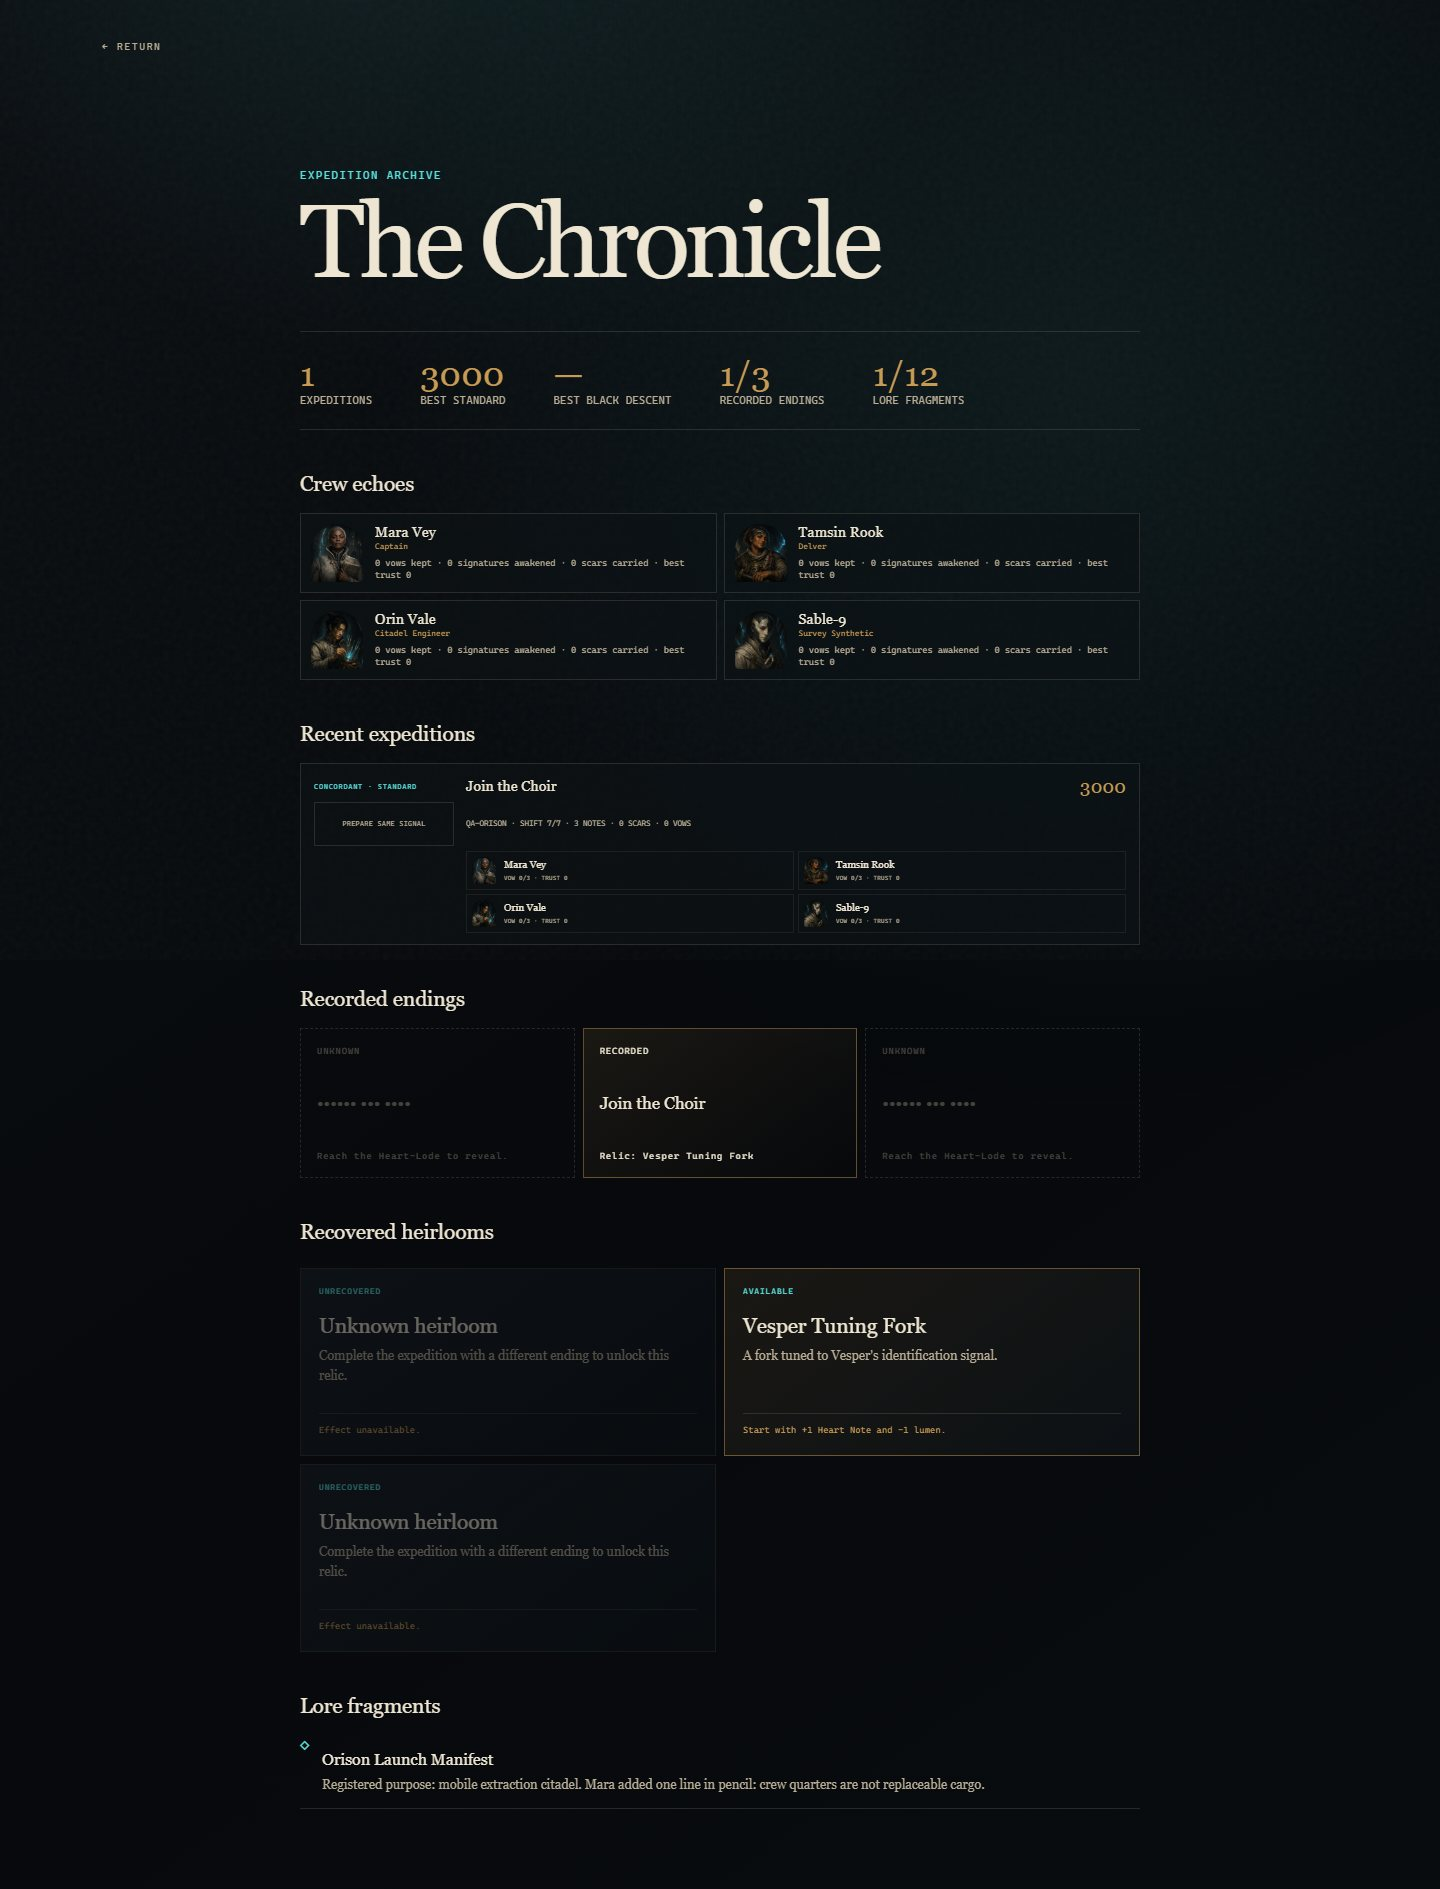
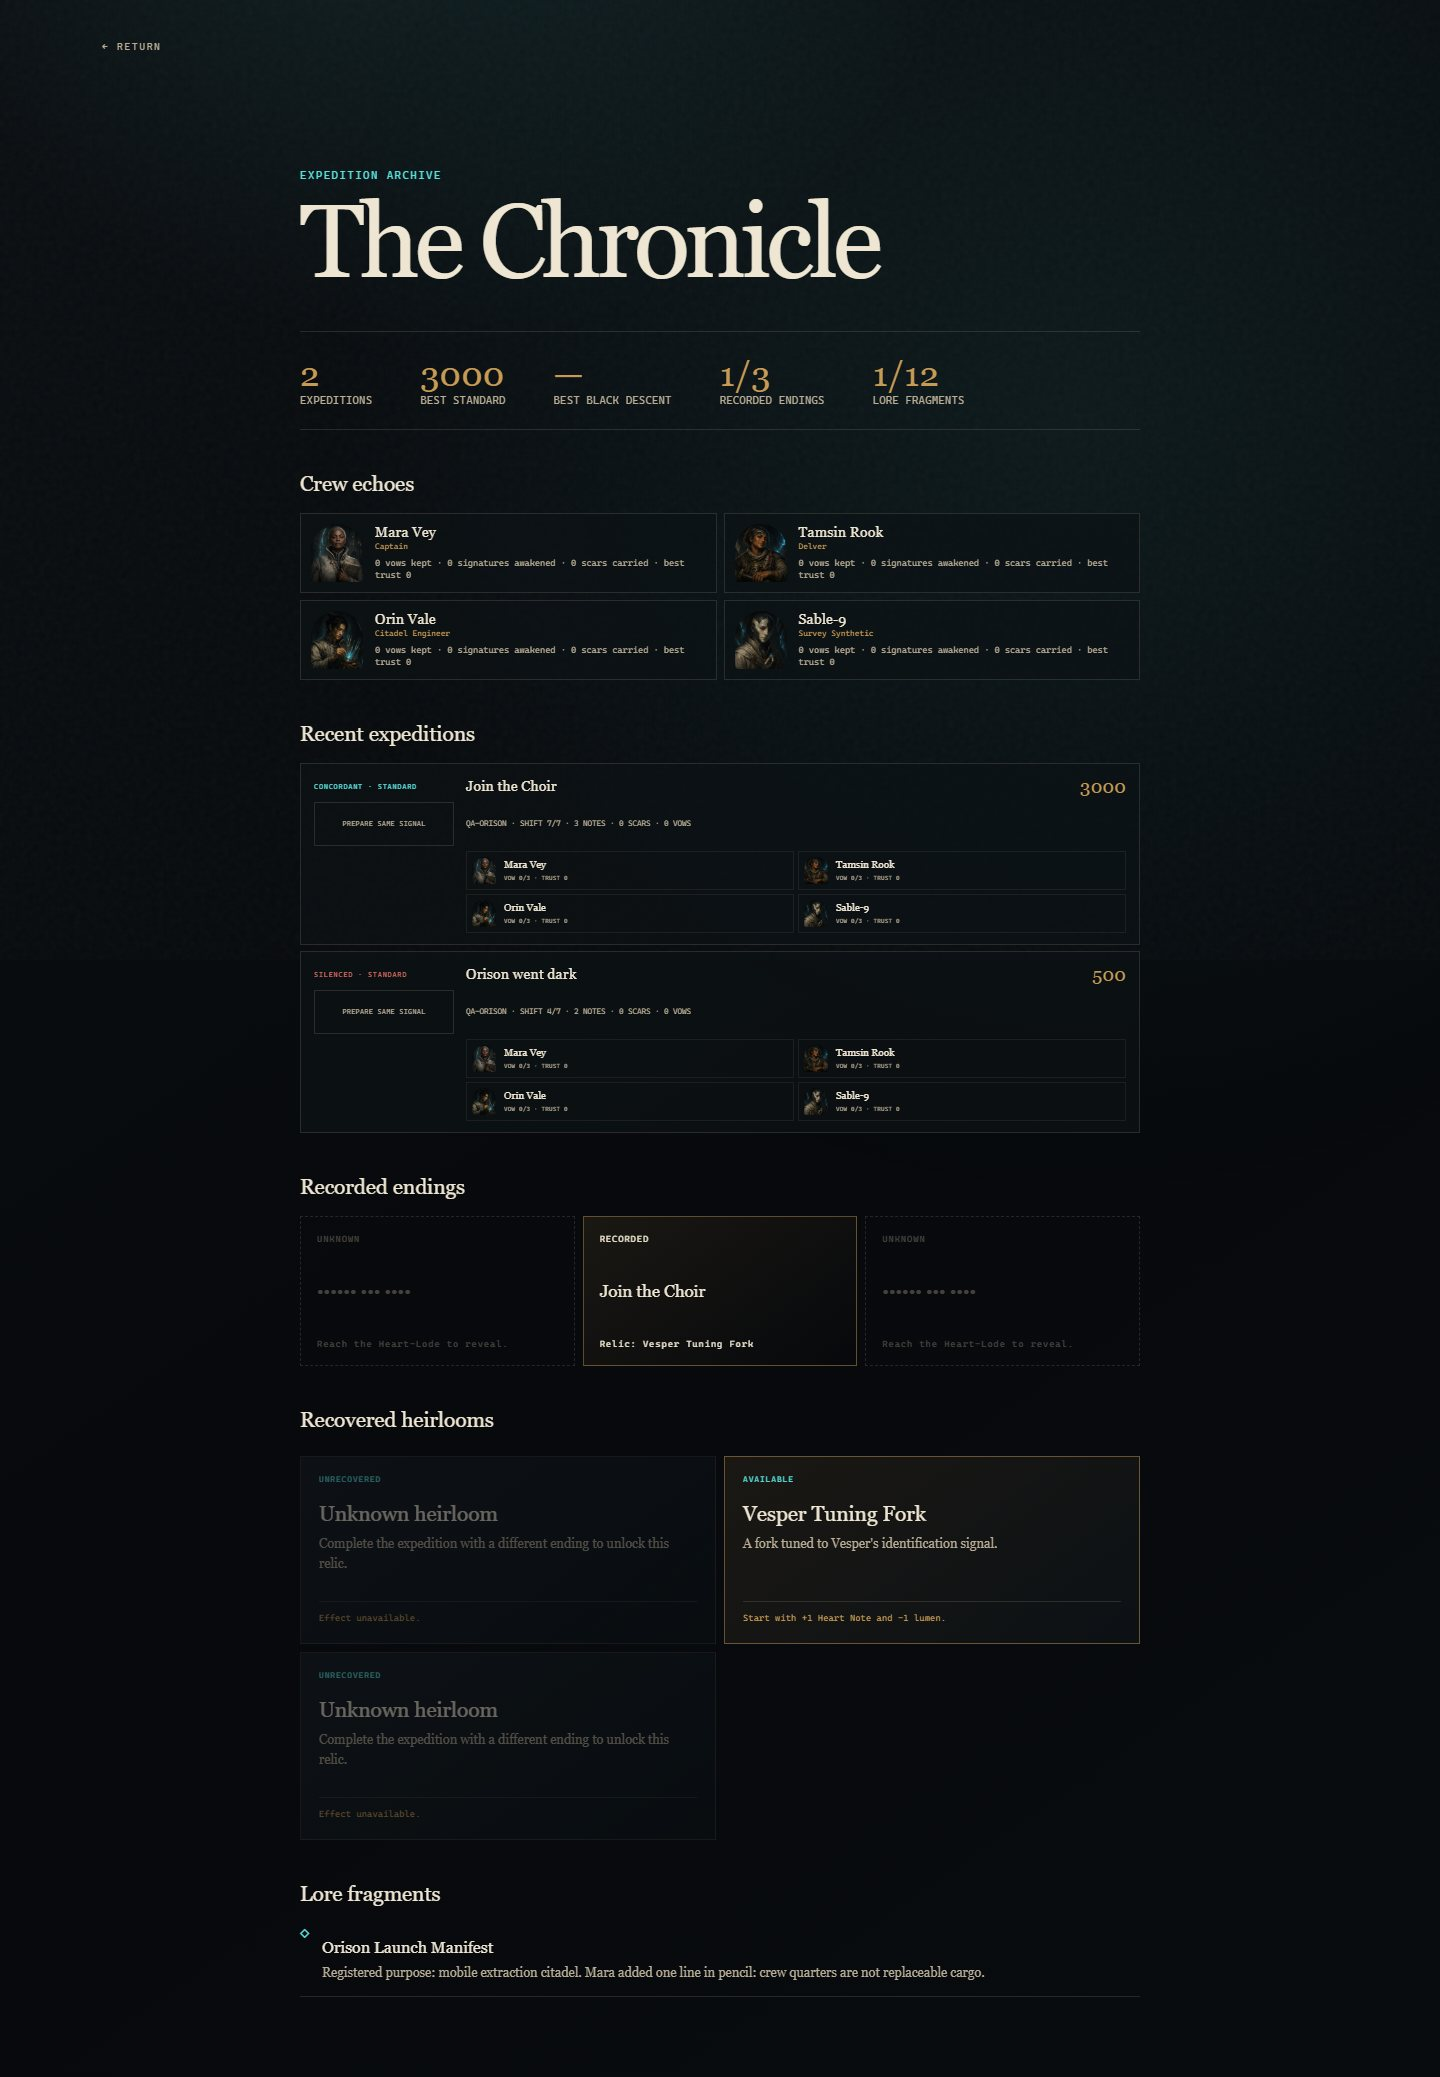
test: add visual evidence for defeat

diff --git a/apps/game/tests/game.spec.ts b/apps/game/tests/game.spec.ts
@@ -419,6 +419,7 @@ test('deterministic hook can resolve a finale and begin the next inherited desce
   await page.getByRole('button', { name: 'Copy expedition report' }).click();
   await expect(page.getByRole('button', { name: 'Report copied' })).toBeVisible();
   await expect.poll(() => page.evaluate(() => localStorage.getItem('copied-expedition-report'))).toContain('Replay this signal:');
+  await expect.poll(() => page.evaluate(() => localStorage.getItem('copied-expedition-report'))).toContain('Signal: THE CUT DID NOT END US.');
   await expect.poll(() => page.evaluate(() => localStorage.getItem('copied-expedition-report'))).toContain('mode=standard');
   await expect(page.locator('.feedback-stack .feedback')).toHaveCount(0);
   const completedSeed = await page.evaluate(() => window.__LODE_CHOIR__?.getState()?.seed);

diff --git a/README.md b/README.md
@@ -83,5 +83,5 @@ Current review captures: [desktop title](docs/screenshots/title-desktop.jpg),
 [desktop planning](docs/screenshots/planning-desktop.jpg), and
 [phone planning](docs/screenshots/planning-phone.jpg), and
 [phone expedition log](docs/screenshots/journal-phone.jpg). The same folder also contains
-reproducible Settings, Standard and Black Descent loadouts, event, development,
-prologue, finale, completion, and Chronicle captures for both viewports.
+reproducible Settings, Standard and Black Descent loadouts, prologue, event,
+development, loss, finale, completion, and Chronicle captures for both viewports.

diff --git a/docs/VALIDATION.md b/docs/VALIDATION.md
@@ -164,7 +164,7 @@ and 696,000 reconstructed replays passed.
   touch targets, sticky resource rail, citadel grid, engine-derived route forecasts,
   leader preview, mobile action-before-roster order, and long scrolling with no
   horizontal overflow.
-- The 24-image review suite uses the fixed `QA-ORISON` URL seed and reduced-motion
+- The 26-image review suite uses the fixed `QA-ORISON` URL seed and reduced-motion
   media. Two consecutive full captures produced identical SHA-256 hashes for every
   JPEG, so visual evidence no longer drifts with random title seeds or animation frames.
 
